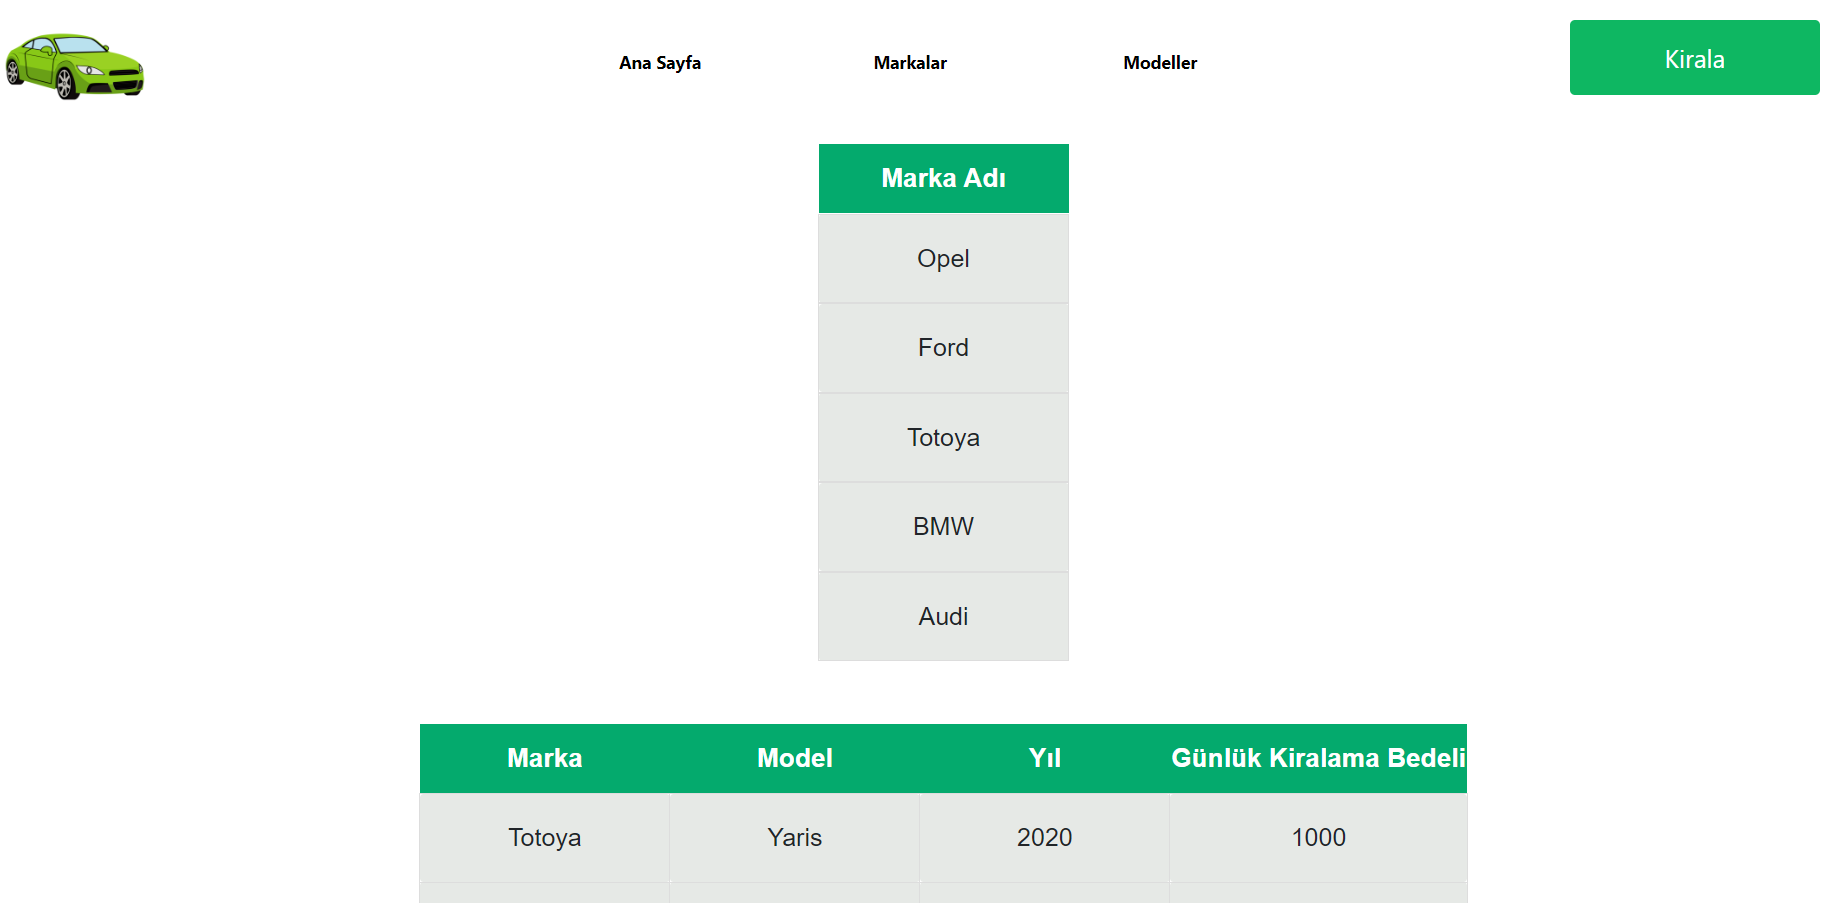
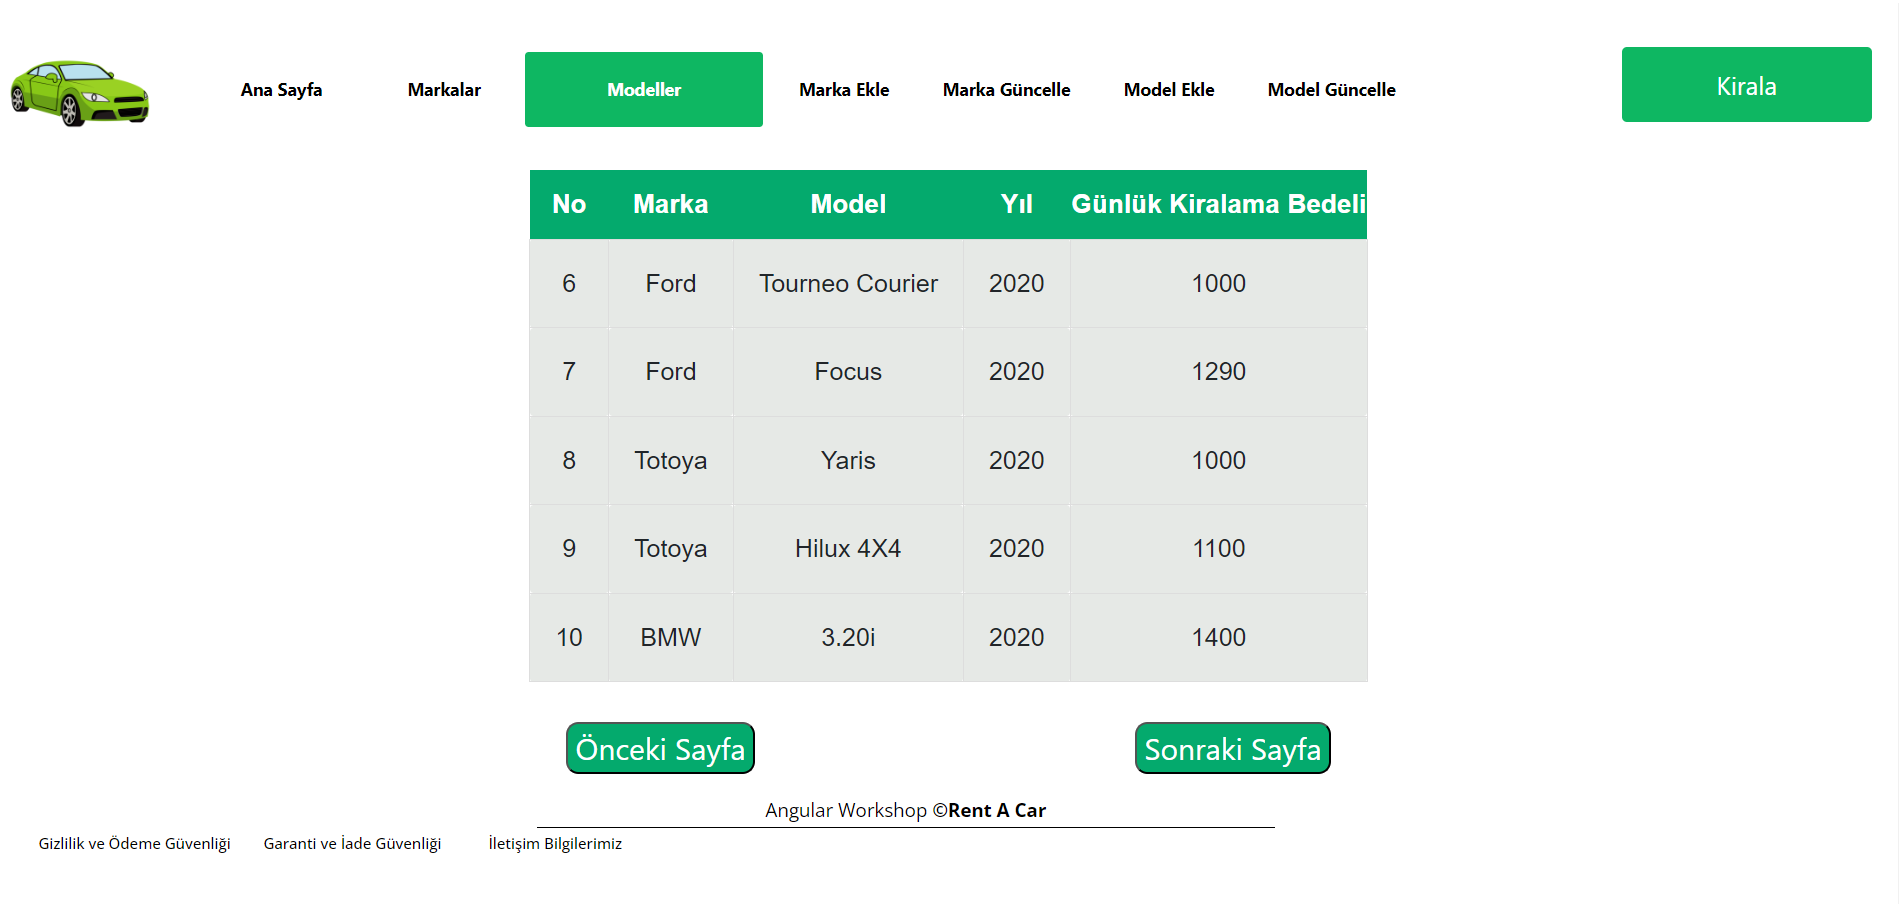
Add pagination for model list

diff --git a/src/app/features/models/components/models-list/models-list.component.ts b/src/app/features/models/components/models-list/models-list.component.ts
@@ -8,6 +8,9 @@ import {
 import { ModelsApiService } from '../../services/modelsApi.service';
 import { ModelListItemDto } from '../../models/model-list-item-dto';
 import { ListGroupComponent } from '../../../../shared/components/list-group/list-group/list-group.component';
+import { PageRequest } from '../../../../core/page-request';
+import { GetModelListRequest } from '../../models/get-model-list-request';
+import { PageResponse } from '../../../../core/page-response';
 
 @Component({
   selector: 'app-models-list',
@@ -18,7 +21,8 @@ import { ListGroupComponent } from '../../../../shared/components/list-group/lis
   changeDetection: ChangeDetectionStrategy.OnPush,
 })
 export class ModelsListComponent implements OnInit {
-  public list!: ModelListItemDto[];
+
+  public list!: PageResponse<ModelListItemDto>;
 
   constructor(
     private modelsApiService: ModelsApiService,
@@ -26,11 +30,34 @@ export class ModelsListComponent implements OnInit {
   ) {}
 
   ngOnInit(): void {
-    //Called after the constructor, initializing input properties, and the first call to ngOnChanges.
-    //Add 'implements OnInit' to the class.
-    this.modelsApiService.getList().subscribe((response) => {
+    this.getList({pageIndex:0, pageSize:5})
+    
+  }
+
+
+
+  getList(request: GetModelListRequest) {
+    
+    this.modelsApiService.getList(request).subscribe((response) => {
       this.list = response;
-      this.change.markForCheck(); // ChangeDetectionStrategy.OnPush // Asekronik olarak çalıştığı için bu satırı ekledik.
     });
   }
+
+  nextPage() {
+    this.getList(
+      {
+        pageIndex: this.list.pageIndex + 1,
+        pageSize: this.list.pageSize,
+      },
+    );
+    }
+    previousPage() {
+      this.getList(
+        {
+          pageIndex: this.list.pageIndex - 1,
+          pageSize: this.list.pageSize,
+        },
+      );
+    }
+
 }

diff --git a/src/app/features/models/services/modelsApi.service.ts b/src/app/features/models/services/modelsApi.service.ts
@@ -6,6 +6,8 @@ import { CreatedModelResponse } from '../models/createted-model-response';
 import { CreateModelRequest } from '../models/create-model-request';
 import { UpdateModelRequest } from '../models/update-model-request';
 import { UpdatedModelResponse } from '../models/updated-model-request';
+import { GetModelListRequest } from '../models/get-model-list-request';
+import { GetModelListResponse } from '../models/get-model-list-response';
 
 @Injectable({
   providedIn: 'root',
@@ -13,9 +15,9 @@ import { UpdatedModelResponse } from '../models/updated-model-request';
 export class ModelsApiService {
   constructor(private http: HttpClient) {}
 
-  getList(): Observable<ModelListItemDto[]> {
-    return this.http.get<ModelListItemDto[]>('http://localhost:3000/models');
-  }
+  // getList(): Observable<ModelListItemDto[]> {
+  //   return this.http.get<ModelListItemDto[]>('http://localhost:3000/models');
+  // }
 
   
 
@@ -32,5 +34,29 @@ export class ModelsApiService {
       `http://localhost:3000/models/${updateModelRequest.id}`,
       updateModelRequest
     );
+  }
+
+  getList(request: GetModelListRequest): Observable<GetModelListResponse> {
+    const newRequest: { [key: string]: string | number } = {
+      _page: request.pageIndex + 1,
+      _limit: request.pageSize,
+    };
+debugger;
+    return this.http
+      .get<ModelListItemDto[]>('http://localhost:3000/models', {
+        params: newRequest,
+      })
+      .pipe(
+        map((response) => {
+          const newResponse: GetModelListResponse = {
+            pageIndex: request.pageIndex,
+            pageSize: request.pageSize,
+            hasNextPage: request.pageIndex < 4,
+            hasPreviousPage: request.pageIndex > 0,
+            items: response,
+          };
+          return newResponse;
+        })
+      );
   }
 }

diff --git a/src/app/features/models/components/models-list/models-list.component.html b/src/app/features/models/components/models-list/models-list.component.html
@@ -8,21 +8,17 @@
             <th>Günlük Kiralama Bedeli</th>
 
         </tr>
-        <tr *ngFor="let item of list; let i = index">
-            <td>{{item.id}}</td>
-            <td>{{item.brand.name}}</td>
-            <td>{{item.name}}</td>
-            <td>{{item.modelYear}}</td>
-            <td>{{item.dailyPrice}}</td>
+        <tr *ngFor="let model of list.items; let i = index">
+            <td>{{model.id}}</td>
+            <td>{{model.brand.name}}</td>
+            <td>{{model.name}}</td>
+            <td>{{model.modelYear}}</td>
+            <td>{{model.dailyPrice}}</td>
         </tr>
     </table>
 </div>
 
-
-
-<!-- <app-list-group></app-list-group> -->
-
-<!-- >= Angular 17 -->
-<!-- @for (item of list; track $index) {
-<p>{{ item.name }} {{ $index }}</p>
-} -->
+<div class="button-area">
+    <button *ngIf="list.hasPreviousPage" (click)="previousPage()">Önceki Sayfa</button>
+    <button *ngIf="list.hasNextPage" (click)="nextPage()">Sonraki Sayfa</button>
+</div>

diff --git a/src/app/shared/components/navbar/navbar.component.scss b/src/app/shared/components/navbar/navbar.component.scss
@@ -25,7 +25,7 @@ img{
   font-size: 14px;
   justify-content: center;
   align-items: center;
-  width: 200px;
+  width: 130px;
   height: 60px;
   transition: .5s;
   background-color: white;
@@ -39,7 +39,7 @@ img{
   display: flex;
   justify-content: center;
   align-items: center;
-  width: 200px;
+  width: 190px;
   height: 60px;
   border-radius: 3px;
 
@@ -49,7 +49,7 @@ img{
 
 .rent-button-div{
   position: relative;
-  left:15%;
+  left:11%;
 }
 .rent-button{
   position: relative;

diff --git a/src/app/features/brands/components/brands-list/brands-list.component.ts b/src/app/features/brands/components/brands-list/brands-list.component.ts
@@ -34,8 +34,8 @@ export class BrandsListComponent implements OnInit {
   }
 
   getModelsByBrandId(brandId: number) {
-    this.modelsApiService.getList().subscribe((response => {
-      this.models = response.filter(x => x.brandId == brandId);
+    this.modelsApiService.getList({pageIndex:0,pageSize:100}).subscribe((response => {
+      this.models = response.items.filter(x => x.brandId == brandId);
       this.change.markForCheck();
     }))
   }

diff --git a/src/app/features/models/components/models-list/models-list.component.scss b/src/app/features/models/components/models-list/models-list.component.scss
@@ -41,3 +41,25 @@ td:hover {
   border-collapse: collapse;
   font-size: 21px;
 }
+
+.button-area {
+  display: flex;
+  justify-content: center;
+  margin-top: 2rem;
+  gap: 19rem;
+  
+}
+
+button{
+  background-color: #04AA6D;
+  color: white;
+  font-size: 1.5rem;
+  border-radius: 10px;
+  transition: .3s;
+}
+button:hover{
+  background-color: white;
+  color: #04AA6D;
+  font-size: 1.5rem;
+  border-radius: 10px;
+}

diff --git a/src/app/core/page-response.ts b/src/app/core/page-response.ts
@@ -1,0 +1,8 @@
+export interface PageResponse<TListItemDto> {
+    pageIndex: number;
+    pageSize: number;
+    // count: number;
+    hasNextPage: boolean;
+    hasPreviousPage: boolean;
+    items: TListItemDto[];
+  }

diff --git a/src/app/features/models/models/get-model-list-response.ts b/src/app/features/models/models/get-model-list-response.ts
@@ -1,0 +1,4 @@
+import { PageResponse } from "../../../core/page-response";
+import { ModelListItemDto } from "./model-list-item-dto";
+
+export interface GetModelListResponse extends PageResponse<ModelListItemDto> {}

diff --git a/src/app/features/models/models/get-model-list-request.ts b/src/app/features/models/models/get-model-list-request.ts
@@ -1,0 +1,4 @@
+import { PageRequest } from "../../../core/page-request";
+
+
+export interface GetModelListRequest extends PageRequest {}

diff --git a/src/app/core/page-request.ts b/src/app/core/page-request.ts
@@ -1,0 +1,5 @@
+export interface PageRequest {
+    pageIndex: number;
+    pageSize: number;
+  }
+  

diff --git a/src/app/features/models/models/model-list-item-dto.ts b/src/app/features/models/models/model-list-item-dto.ts
@@ -1,3 +1,4 @@
+
 export interface ModelListItemDto {
   id:         number;
   brandId:    number;

diff --git a/README.md b/README.md
@@ -1,5 +1,5 @@
 # Brands Page
-![alt text](https://raw.githubusercontent.com/dogukankoc/RentACarAngular/main/image.png)
+![alt text](/image.png)
 # Rentacar
 
 This project was generated with [Angular CLI](https://github.com/angular/angular-cli) version 17.3.4.
